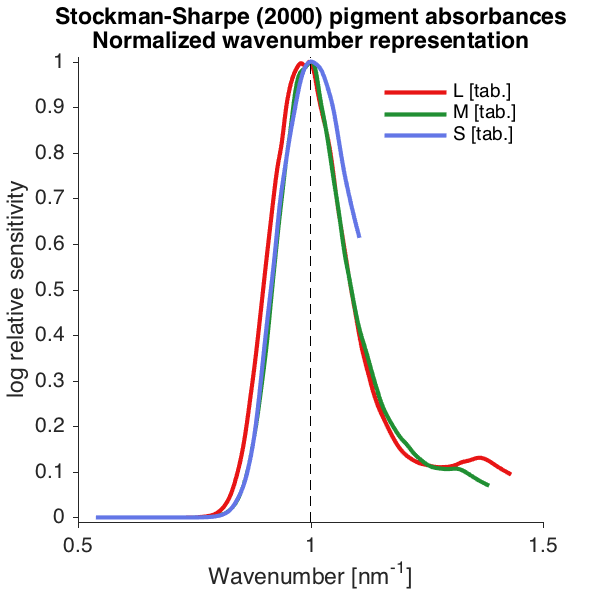
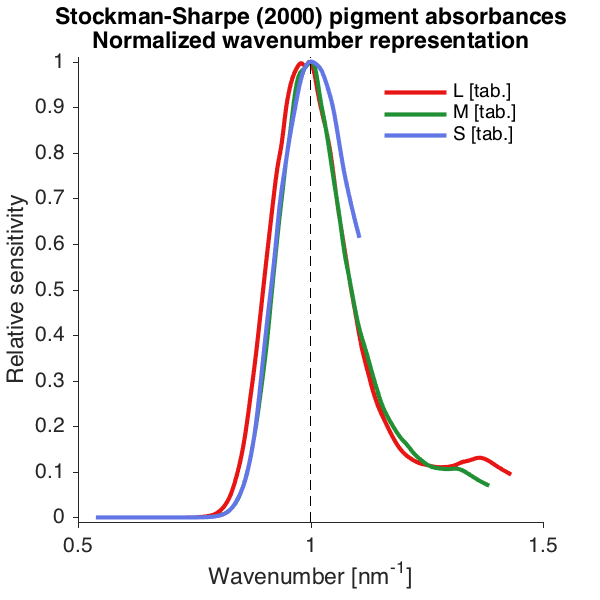
Further figure tweaks

Changed region(s): [[0.0, 0.3, 0.06, 0.66]]

diff --git a/Nomograms/ShiftNomogramTest.m b/Nomograms/ShiftNomogramTest.m
@@ -91,7 +91,7 @@ pbaspect([1 1 1]);
 legend(h1, 'L [tab.]', 'M [tab.]', 'S [tab.]'); legend boxoff;
 set(gca, 'TickDir', 'out'); box off;
 xlim([0.5 1.5]); ylim([-0.01 1.01]);
-xlabel('Wavenumber [nm^{-1}]'); ylabel('log relative sensitivity');
+xlabel('Wavenumber [nm^{-1}]'); ylabel('Relative sensitivity');
 title({'Stockman-Sharpe (2000) pigment absorbances' 'Normalized wavenumber representation'});
 set(gcf, 'PaperPosition', [0 0 4 4]); %Position plot at left hand corner with width 8 and height 5.
 set(gcf, 'PaperSize', [4 4]); %Set the paper to have width 8 and height 5.
